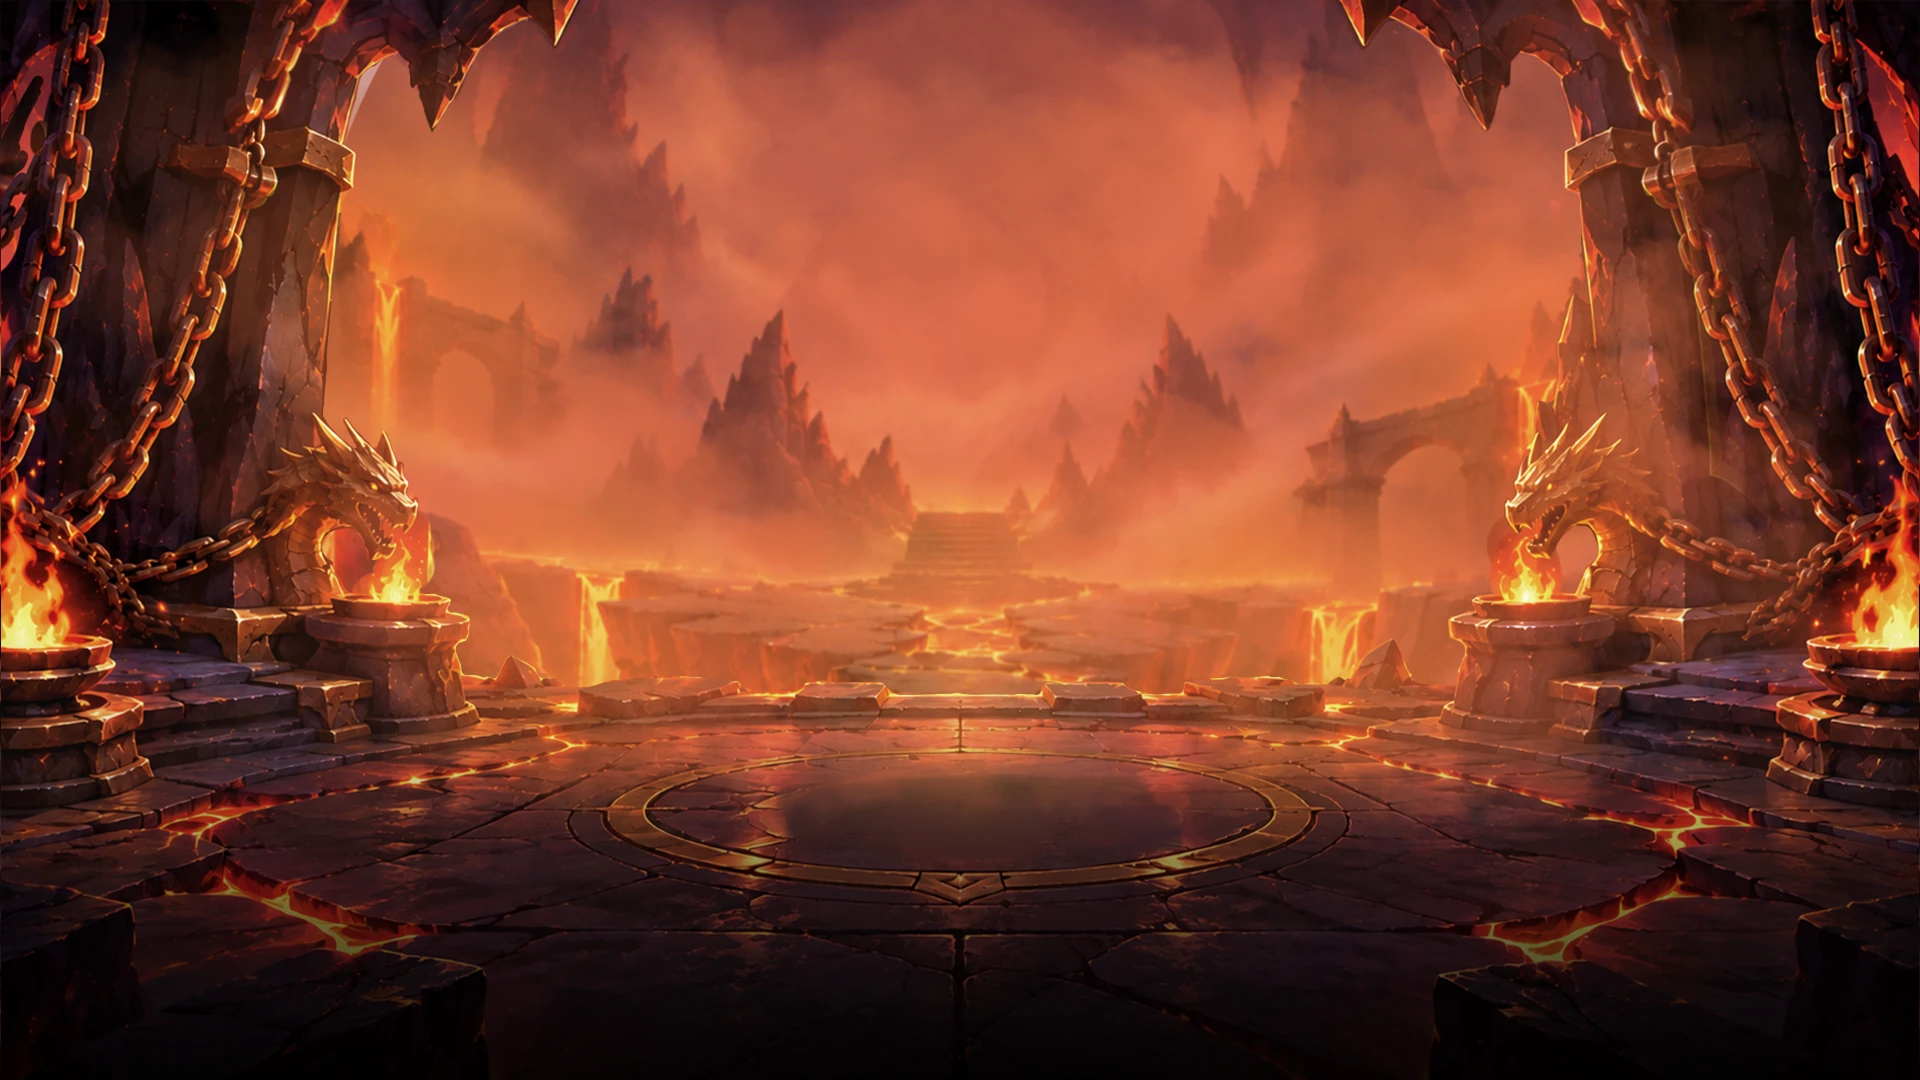
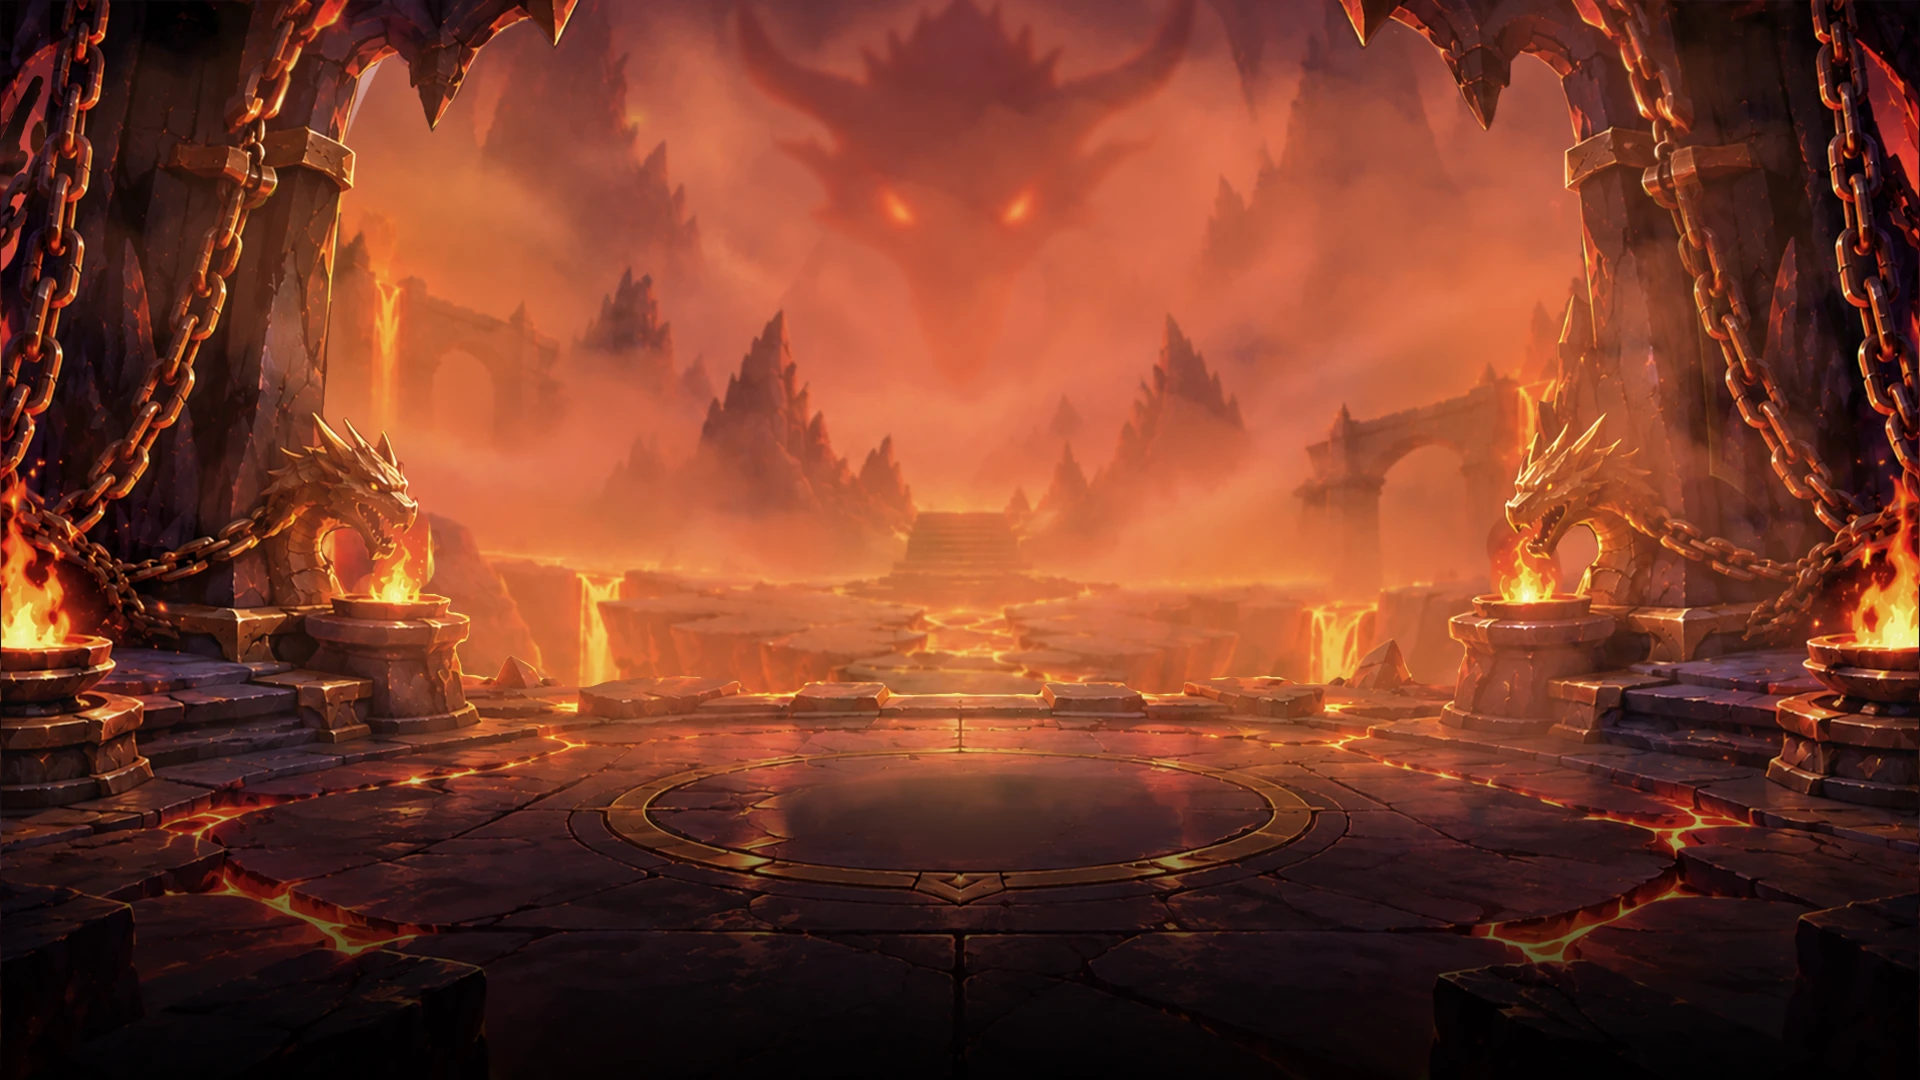
crazy-time: new treasure chest backdrops, with a portrait cut

Changed region(s): [[0.375, 0.0, 0.625, 0.2139]]

diff --git a/apps/crazy-time/src/components/BonusRound.svelte b/apps/crazy-time/src/components/BonusRound.svelte
@@ -50,13 +50,16 @@
 	/**
 	 * A room brings its own backdrop, which then shows through whatever it plays on. Three rooms have
 	 * a moving one (a video, see `roomVideo`); the Treasure Chest has a still, the dragon's lair,
-	 * painted from the preload's resident copy the same way the table's backdrop is. A room with
-	 * neither keeps the flat room-tinted gradient.
+	 * painted from the preload's resident copy the same way the table's backdrop is, in a cut for
+	 * each orientation. A room with neither keeps the flat room-tinted gradient.
 	 *
 	 * Nothing depends on video playback: a browser that refuses leaves the gradient underneath showing.
 	 */
-	const ROOM_STILL: Partial<Record<Spot, string>> = {
-		chest: 'img/treasure_chest/background_landscape.webp',
+	const ROOM_STILL: Partial<Record<Spot, { landscape: string; portrait: string }>> = {
+		chest: {
+			landscape: 'img/treasure_chest/background_landscape.webp',
+			portrait: 'img/treasure_chest/background_portrait.webp',
+		},
 	};
 	const isVideoRoom = (spot: Spot): spot is VideoKey =>
 		spot === 'piratePlinko' || spot === 'bonusWheel' || spot === 'oceanVoyage';
@@ -166,7 +169,7 @@
 {#if current}
 	{@const spot = spotFor(current.room)}
 	{@const colour = SPOT_COLOUR[spot]}
-	{@const still = ROOM_STILL[spot]}
+	{@const still = ROOM_STILL[spot]?.[portrait ? 'portrait' : 'landscape']}
 	<div class="screen" class:closing style="--room-base:{colour.base}; --room-deep:{colour.deep}">
 		<div class="room-video-host" use:roomVideo={spot}></div>
 		{#if still}

diff --git a/apps/crazy-time/src/lib/preloadAssets.ts b/apps/crazy-time/src/lib/preloadAssets.ts
@@ -102,7 +102,9 @@ const DOM_IMAGE_PATHS: readonly string[] = [
 	'img/bonus-wheel/frame.png',
 
 	// ── Treasure Chest (RoomChest.svelte) ────────────────────────────────────────────────────────
+	// Both backdrop cuts, for the same reason as the plinko boards above.
 	'img/treasure_chest/background_landscape.webp',
+	'img/treasure_chest/background_portrait.webp',
 	'img/treasure_chest/chest_close.webp',
 	'img/treasure_chest/chest_open.webp',
 
